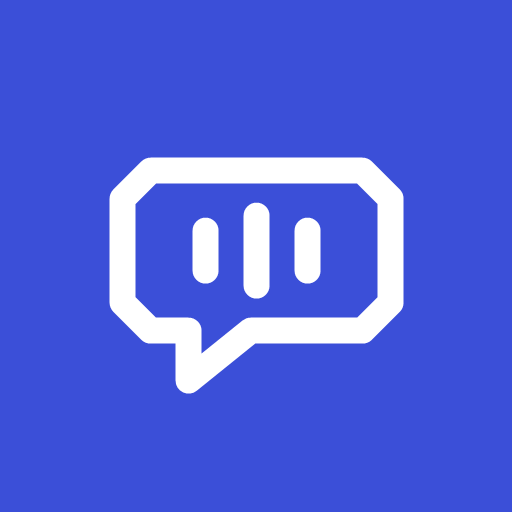
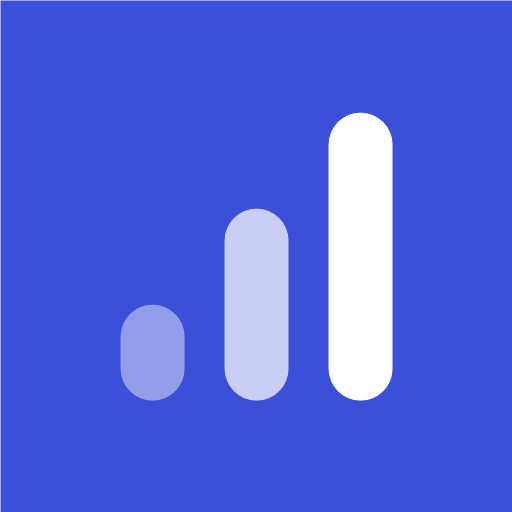
Novo nome One Two Three, marca minimalista e microfone mais estável na primeira vez

Changed region(s): [[0.1875, 0.2188, 0.8125, 0.7812], [0.0, 0.0, 0.0312, 0.0312]]

diff --git a/src/engines/stt.ts b/src/engines/stt.ts
@@ -50,16 +50,37 @@ function construtorRec(): (new () => Rec) | null {
 }
 
 let recAtual: Rec | null = null;
+let permissaoOk = false;
+
+/**
+ * Na primeira vez, o navegador pergunta se pode usar o microfone. Se o reconhecimento já estiver
+ * contando o tempo nessa hora, ele acaba antes de a pessoa falar. Por isso pedimos a permissão
+ * antes, esperamos a resposta e só depois começamos a ouvir.
+ */
+async function garantirPermissao(): Promise<void> {
+  if (permissaoOk || !navigator.mediaDevices?.getUserMedia) return;
+  const stream = await navigator.mediaDevices.getUserMedia({ audio: true });
+  stream.getTracks().forEach((t) => t.stop());
+  permissaoOk = true;
+  // Dá um respiro para o sistema liberar o microfone antes do reconhecimento pegar.
+  await new Promise((r) => setTimeout(r, 250));
+}
 
 export const sttWebSpeech: SttEngine = {
   id: 'webspeech',
   nome: 'Reconhecimento do navegador',
   disponivel: () => typeof window !== 'undefined' && !!construtorRec(),
-  ouvir(opcoes) {
+  async ouvir(opcoes) {
+    try {
+      await garantirPermissao();
+    } catch (e: any) {
+      throw new Error(e?.name === 'NotAllowedError' ? 'not-allowed' : String(e?.message || e));
+    }
+    if (recAtual) { try { recAtual.abort(); } catch { /* já tinha parado */ } recAtual = null; }
     return new Promise((resolve, reject) => {
       const C = construtorRec();
       if (!C) return reject(new Error('indisponivel'));
-      const rec = new C();
+      const rec = new C() as Rec & { onstart: (() => void) | null };
       recAtual = rec;
       rec.lang = 'en-US';
       rec.interimResults = false;
@@ -67,7 +88,11 @@ export const sttWebSpeech: SttEngine = {
       rec.continuous = !!opcoes?.continuo;
       let alternativas: Alternativa[] = [];
       let erro: string | null = null;
-      const timer = window.setTimeout(() => rec.stop(), opcoes?.maxMs ?? 12000);
+      // O tempo só começa a contar quando o reconhecimento realmente começou a ouvir.
+      let timer = 0;
+      const limite = () => { timer = window.setTimeout(() => rec.stop(), opcoes?.maxMs ?? 12000); };
+      rec.onstart = limite;
+      const reserva = window.setTimeout(() => { if (!timer) limite(); }, 3000);
       rec.onresult = (e: any) => {
         if (e.results.length > 1) {
           // Leitura longa: junta os trechos, usando a melhor opção de cada um.
@@ -88,6 +113,7 @@ export const sttWebSpeech: SttEngine = {
       };
       rec.onend = () => {
         window.clearTimeout(timer);
+        window.clearTimeout(reserva);
         recAtual = null;
         if (erro && erro !== 'no-speech' && erro !== 'aborted') reject(new Error(erro));
         else resolve({ alternativas });
@@ -96,6 +122,8 @@ export const sttWebSpeech: SttEngine = {
         rec.start();
       } catch (err) {
         window.clearTimeout(timer);
+        window.clearTimeout(reserva);
+        recAtual = null;
         reject(err);
       }
     });

diff --git a/src/screens/PrimeiroUso.tsx b/src/screens/PrimeiroUso.tsx
@@ -1,6 +1,7 @@
 import { useState } from 'react';
 import { UNIDADES_INICIANTE } from '../content';
 import { atualizar } from '../lib/store';
+import { Logo } from '../ui/Logo';
 import { Pronuncia } from '../ui/Pronuncia';
 import { ir } from '../ui/rotas';
 import { TestarMicrofone } from './Microfone';
@@ -19,8 +20,11 @@ export function PrimeiroUso() {
       </div>
       {passo === 0 && (
         <>
-          <h1>Fale inglês de verdade</h1>
-          <p className="secundario">Você ouve, repete e recebe uma nota na hora. Embaixo de cada palavra aparece como ela soa:</p>
+          <div className="boas-vindas">
+            <Logo />
+            <h1 className="grande">Ouça. Repita. Acerte.</h1>
+          </div>
+          <p className="secundario">Em três passos: você ouve, repete e recebe uma nota na hora. Embaixo de cada palavra aparece como ela soa:</p>
           <div className="cartao">
             <Pronuncia en="I would like an orange juice." fala={['ai', 'uud', 'laik', 'én', 'ó-rindj', 'djus']} />
             <p className="secundario pequeno">Eu gostaria de um suco de laranja.</p>

diff --git a/src/styles.css b/src/styles.css
@@ -235,6 +235,19 @@ button { font: inherit; color: inherit; }
 .escolha-plano { text-align: left; }
 .escolha-plano.marcado { border-color: var(--destaque); background: var(--destaque-suave); }
 
+/* Marca One Two Three */
+.marca { flex-shrink: 0; display: block; }
+.marca rect { fill: var(--destaque); }
+.marca .m1 { opacity: 0.35; }
+.marca .m2 { opacity: 0.65; }
+.logo { display: inline-flex; align-items: center; gap: 10px; }
+.logo-texto { font-size: 19px; font-weight: 800; letter-spacing: -0.03em; line-height: 1; }
+.logo-texto .l1 { color: var(--texto2); }
+.logo-texto .l2 { color: var(--texto); }
+.logo-texto .l3 { color: var(--texto-destaque); }
+.boas-vindas { display: flex; flex-direction: column; gap: 16px; padding-top: 8px; }
+.boas-vindas .grande { font-size: 34px; }
+
 .bloqueado { opacity: 0.7; }
 a { color: var(--texto-destaque); }
 .link { background: none; border: none; color: var(--texto-destaque); font-weight: 700; padding: 0; cursor: pointer; text-decoration: underline; min-height: 44px; }

diff --git a/src/ui/Logo.tsx b/src/ui/Logo.tsx
@@ -1,0 +1,22 @@
+// Marca do app: três barras que sobem (1, 2, 3), como degraus e como o nível da voz.
+
+export function Marca({ tamanho = 28 }: { tamanho?: number }) {
+  return (
+    <svg width={tamanho} height={tamanho} viewBox="0 0 32 32" aria-hidden="true" className="marca">
+      <rect x="4" y="20" width="6" height="8" rx="3" className="m1" />
+      <rect x="13" y="12" width="6" height="16" rx="3" className="m2" />
+      <rect x="22" y="4" width="6" height="24" rx="3" className="m3" />
+    </svg>
+  );
+}
+
+export function Logo({ tamanho = 28 }: { tamanho?: number }) {
+  return (
+    <span className="logo" aria-label="One Two Three" role="img">
+      <Marca tamanho={tamanho} />
+      <span className="logo-texto" aria-hidden="true">
+        <span className="l1">one</span> <span className="l2">two</span> <span className="l3">three</span>
+      </span>
+    </span>
+  );
+}

diff --git a/src/screens/Inicio.tsx b/src/screens/Inicio.tsx
@@ -3,6 +3,7 @@ import { licaoAtual, intermediarioLiberado, mediaIniciante, revisoesVencidas } f
 import { opcao, semanaAtual } from '../lib/plan';
 import { sequencia, useEstado } from '../lib/store';
 import { Icone } from '../ui/Icones';
+import { Logo } from '../ui/Logo';
 import { ir } from '../ui/rotas';
 
 function saudacao() {
@@ -27,6 +28,7 @@ export function Inicio() {
 
   return (
     <div className="tela">
+      <Logo tamanho={24} />
       <div className="linha entre">
         <div className="coluna" style={{ gap: 2 }}>
           <span className="secundario">{saudacao()}!</span>

diff --git a/vite.config.ts b/vite.config.ts
@@ -13,8 +13,8 @@ export default defineConfig({
       registerType: 'autoUpdate',
       includeAssets: ['icon.svg', 'apple-touch-icon.png'],
       manifest: {
-        name: 'Fala Inglês',
-        short_name: 'Fala Inglês',
+        name: 'One Two Three',
+        short_name: 'One Two Three',
         description: 'Aprenda a falar e ler inglês com nota de pronúncia.',
         lang: 'pt-BR',
         start_url: './',

diff --git a/index.html b/index.html
@@ -11,7 +11,7 @@
     <link rel="preconnect" href="https://fonts.googleapis.com" />
     <link rel="preconnect" href="https://fonts.gstatic.com" crossorigin />
     <link href="https://fonts.googleapis.com/css2?family=Plus+Jakarta+Sans:wght@400;500;600;700;800&display=swap" rel="stylesheet" />
-    <title>Fala Inglês</title>
+    <title>One Two Three</title>
   </head>
   <body>
     <div id="root"></div>

diff --git a/README.md b/README.md
@@ -1,4 +1,6 @@
-# Fala Inglês
+# One Two Three
+
+Link do app: https://jhonatandclick-eng.github.io/One-Two-Three/
 
 App gratuito para brasileiros aprenderem a **falar e ler inglês**, com nota de pronúncia na hora.
 Funciona no navegador do celular (iPhone e Android), sem login, sem anúncios e sem servidor:
